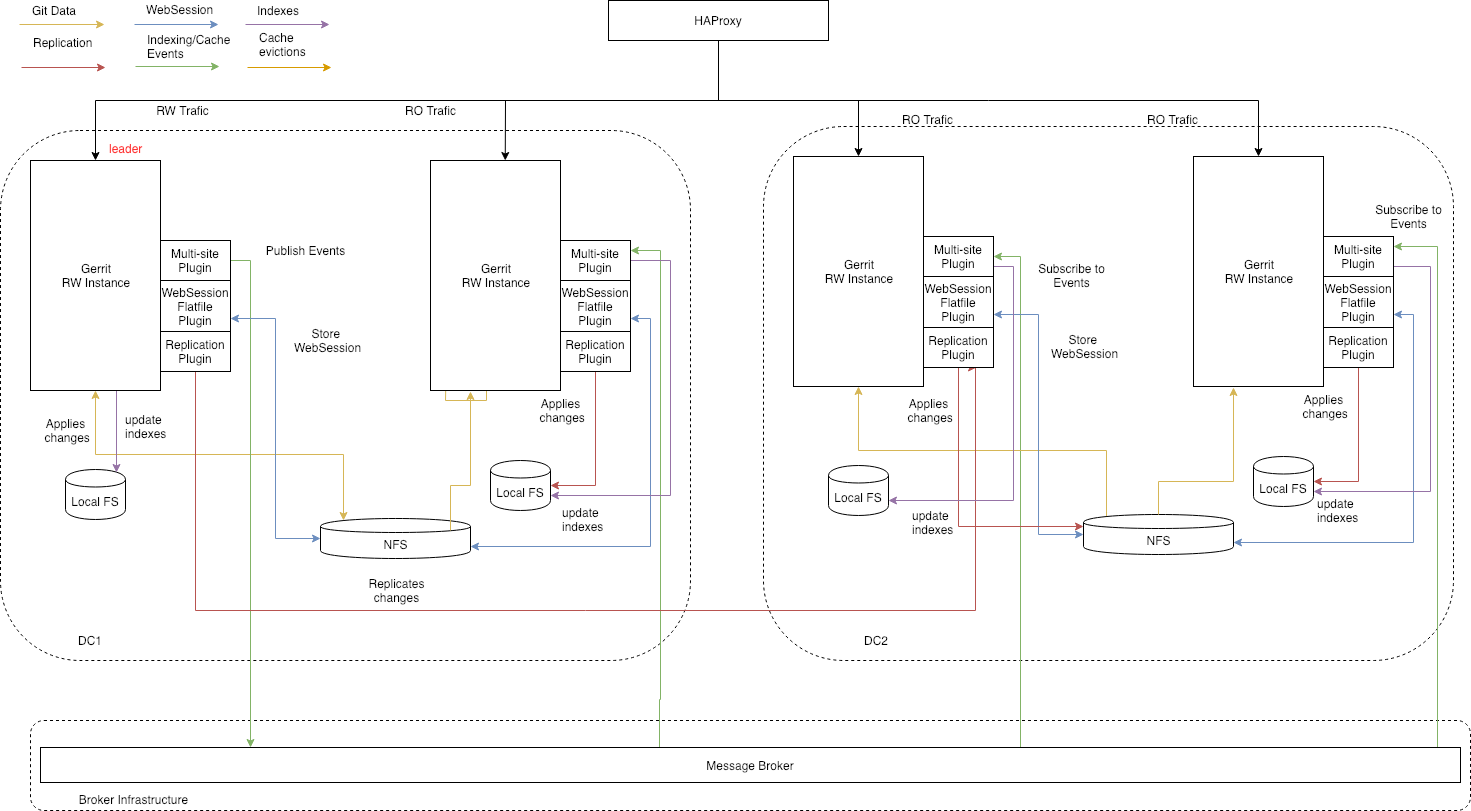
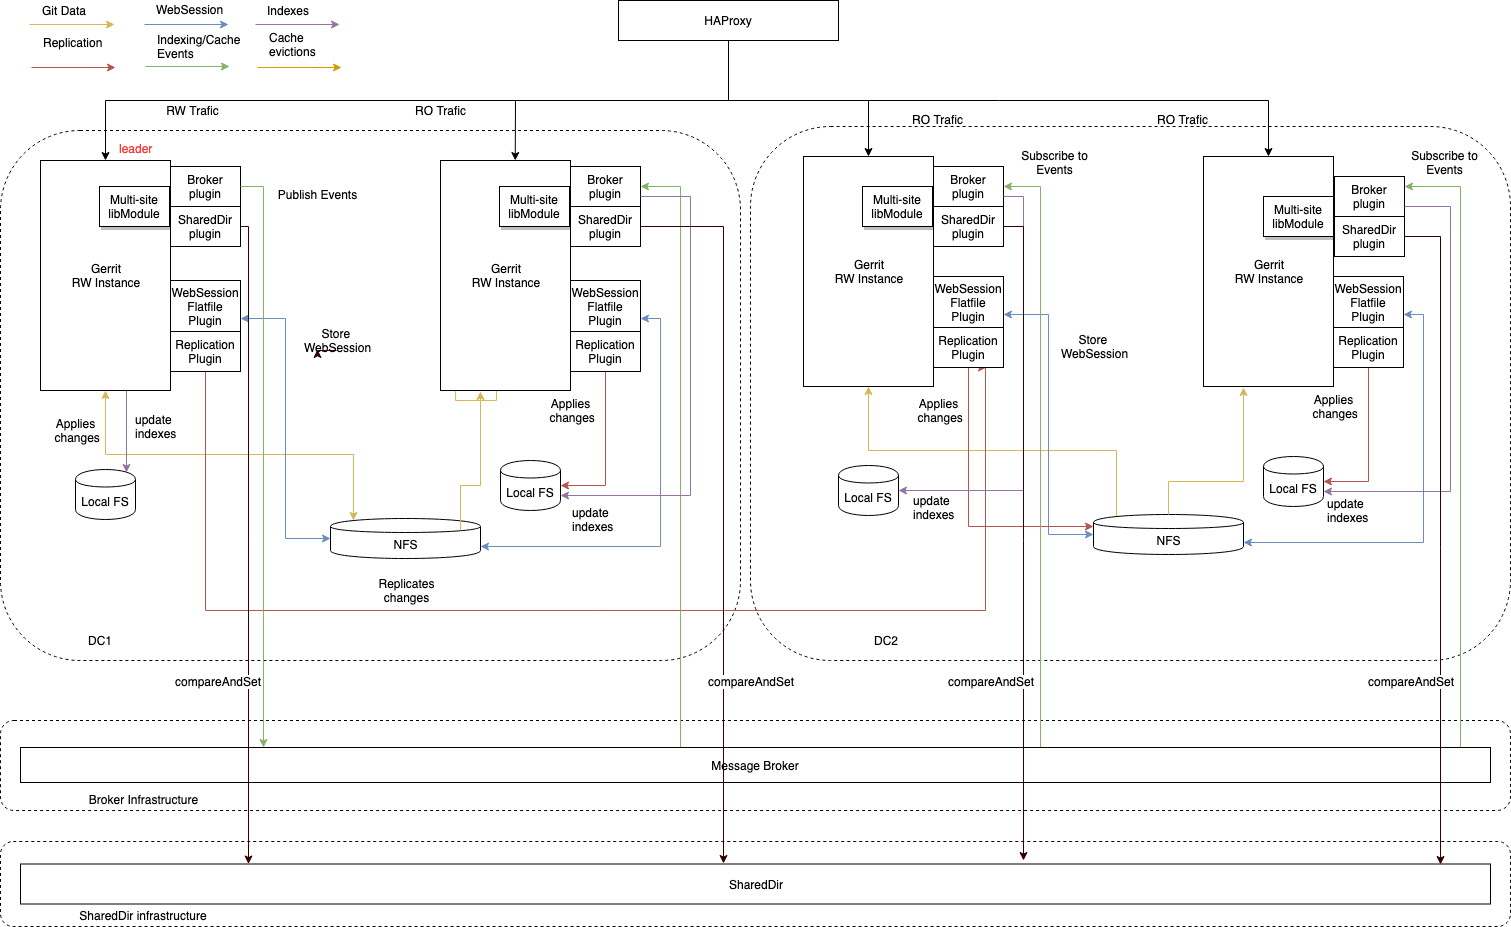
Update design proposal to abstract broker and sharedDir
The implementation of the message broker and the shared database should
be agnostic of the arbitrary choice of Kafka and Zookeper.

This change update the documentation with a proposal that aims to
abstract over those specific choices and allow a more dinamic binding of
different implementations instead.

diff --git a/DESIGN.md b/DESIGN.md
@@ -257,8 +257,14 @@ be replicated transparently across sites.
 The multi-site solution described here depends upon the combined use of different
 components:
 
-- **multi-site plugin**: Enables the replication of Gerrit _indexes_, _caches_,
-  and _stream events_ across sites.
+- **multi-site libModule**: Exposes interfaces needed to plug in specific
+implementation of `Brokers` and `SharedDir` plugins.
+
+- **broker plugin**: an implementation of the broker interface, which enables the
+replication of Gerrit _indexes_, _caches_,  and _stream events_ across sites.
+
+- **sharedDir plugin**: an implementation of the sharedDir interface, which enables
+the detection of out-of-sync refs across gerrit sites.
 
 - **replication plugin**: enables the replication of the _Git repositories_ across
   sites.
@@ -277,10 +283,39 @@ The interactions between these components are illustrated in the following diagr
 
 ## Implementation Details
 
-### Message brokers
-The multi-site plugin adopts an event-sourcing pattern and is based on an
-external message broker. The current implementation uses Apache Kafka.
-It is, however, potentially extensible to others, like RabbitMQ or NATS.
+### Multi-site libModule
+The multi-site component is agnostic to specific choices of brokers and
+shareDirs implementations, and it does not care how they, specifically, fulfill
+their task.
+
+Instead, this component takes on only two responsibilities:
+
+* Exposing DynamicItem bindings onto which concrete _Broker_ and a _SharedDir_
+plugins can register their specific implementations. When no such plugins are
+installed, then a default `Noop` bindings will be registered instead.
+
+* Wrapping the GitRepositoryManager so that every interaction with git can be
+verified by the sharedDir plugin.
+
+### Message brokers plugin
+It is responsibility of this plugin to provide a specific pub/sub broker implementation
+able to produce and consume _indexes_, _caches_,  and _stream events_ across sites.
+
+When provided, the message broker plugin will override the dynamicItem binding exposed
+by the multi-site module with a specific implementation, such as Kafka, RabbitMQ, NATS, etc.
+
+### SharedDir plugin
+It is responsibility of this plugin to detect out-of-sync refs across multi sites
+(aka split brain).  This can be achieved by a coordinator holding the most recent
+`sha` fir each specific mutable `refs`.
+This requires some sort of atomic _Compare and Set_ operation.
+
+When provided, the sharedDir plugin will override the dynamicItem binding exposed
+by the multi-site module with a specific implementation, such as Zoekeeper, MySQL,
+Mongo, etc.
+
+See [Prevent split brain thanks to sharedDir coordinator](#prevent-split-brain-thanks-to-sharedDir-coordinator)
+For a thorough example on this.
 
 ### Eventual consistency on Git, indexes, caches, and stream events
 
@@ -408,22 +443,10 @@ detail below.
 
 **NOTE**: The two options are not exclusive.
 
-#### Introduce a `DfsRefDatabase`
+#### Prevent split brain thanks to sharedDir coordinator
 
-An implementation of the out-of-sync detection logic could be based on a central
-coordinator holding the _last known status_ of a _mutable ref_ (immutable refs won't
-have to be stored here). This would be, essentially, a DFS base `RefDatabase` or `DfsRefDatabase`.
-
-This component would:
- 
-- Contain a subset of the local `RefDatabase` data:
-  - Store only _mutable _ `refs`
-  - Keep only the most recent `sha` for each specific `ref`
-- Require that atomic _Compare and Set_ operations can be performed on a
-key -> value storage.  For example, it could be implemented using `Zookeeper`. (One implementation
-was done by Dave Borowitz some years ago.)
-
-This interaction is illustrated in the diagram below:
+The above scenario can be prevented by using an implementation of the sharedDir
+plugin, which will operate as follows: 
 
 ![Split Brain Prevented](src/main/resources/Documentation/git-replication-split-brain-detected.png)
 
@@ -469,17 +492,6 @@ sent the request to the Ref-DB but before persisting this request into its `git`
   able to differentiate the type of traffic and, thus, is forced always to use the
   RW site, even though the operation is RO.
 
-- **Support for different brokers**: Currently, the multi-site plugin supports Kafka.
-  More brokers need to be supported in a fashion similar to the
-  [ITS-* plugins framework](https://gerrit-review.googlesource.com/admin/repos/q/filter:plugins%252Fits).
-  Explicit references to Kafka must be removed from the multi-site plugin.  Other plugins may contribute
-  implementations to the broker extension point.
-
-- **Split the publishing and subscribing**:  Create two separate
-  plugins.  Combine the generation of the events into the current kafka-
-  events plugin.  The multi-site plugin will focus on
-  consumption of, and sorting of, the replication issues.
-
 ## Step-2: Move to multi-site Stage #8.
 
 - Auto-reconfigure HAProxy rules based on the projects sharding policy
@@ -487,5 +499,3 @@ sent the request to the Ref-DB but before persisting this request into its `git`
 - Serve RW/RW traffic based on the project name/ref-name.
 
 - Balance traffic with "locally-aware" policies based on historical data
-
-- Preventing split-brain in case of temporary sites isolation
